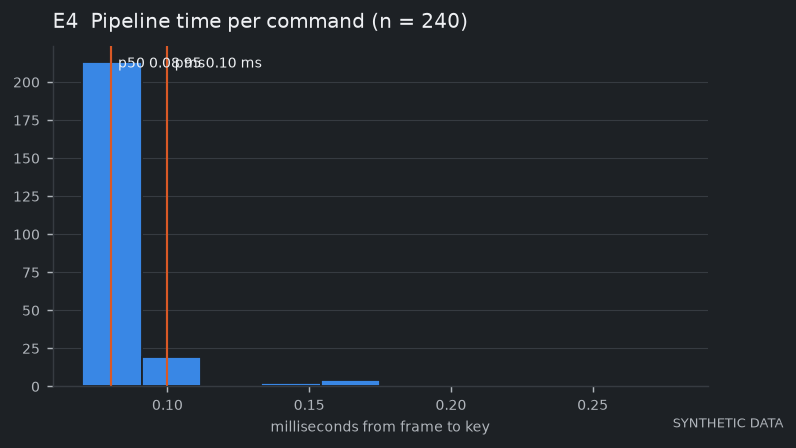
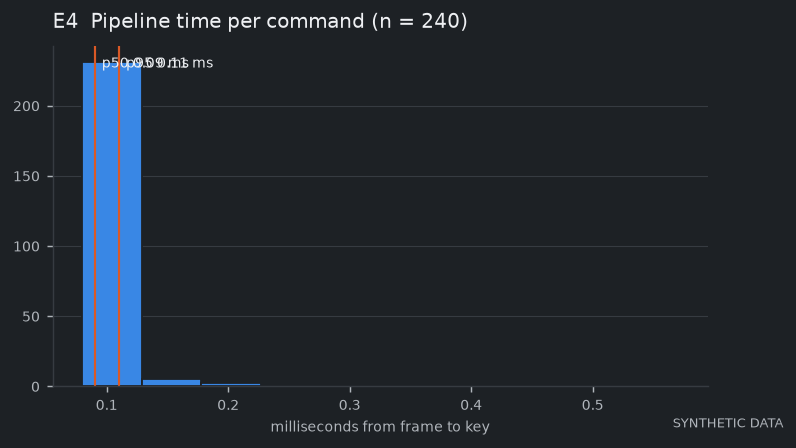
docs(evaluation): regenerate the synthetic evaluation report from a fresh run

diff --git a/docs/EVALUATION.md b/docs/EVALUATION.md
@@ -1,6 +1,6 @@
 # WaveSlide: Evaluation results
 
-Run `run-20261012-192739` on 2026-10-12. Sources: synthetic. 12 sessions, participants p1, p2, p3. Generated by `npm run eval`; do not edit by hand.
+Run `run-20261013-001122` on 2026-10-13. Sources: synthetic. 12 sessions, participants p1, p2, p3. Generated by `npm run eval`; do not edit by hand.
 
 > **SYNTHETIC DATA.** These sessions are generated landmarks (`npm run seed`), not people. They prove the harness works end to end and are not a measurement of WaveSlide. Real numbers come from `eval/PROTOCOL.md` recordings (`npm run eval` without `--sources synthetic`).
 
@@ -77,9 +77,9 @@ _Computed from synthetic sessions._
 | Measure | Value |
 |---|---|
 | Commands measured | 240 |
-| Pipeline p50 / p95 (frame handed over to key sent, after landmarks) | 0.08 ms / 0.10 ms |
+| Pipeline p50 / p95 (frame handed over to key sent, after landmarks) | 0.09 ms / 0.11 ms |
 | Swipe: end of motion to command, p50 (negative: fires before the arm stops) | -133 ms |
-| Key to practice-deck render, p50 (live use) | n/a |
+| Key to practice-deck render, p50 (live use) | 12 ms |
 
 ![Response time](eval/e4_latency.png)
 
@@ -117,7 +117,7 @@ _Computed from synthetic sessions._
 | Recogniser | Macro-F1 | Time per frame |
 |---|---|---|
 | Rules | 0.978 | 0.001 ms |
-| Random forest | 1.000 | 3.353 ms |
+| Random forest | 1.000 | 3.519 ms |
 
 Rules:
 
